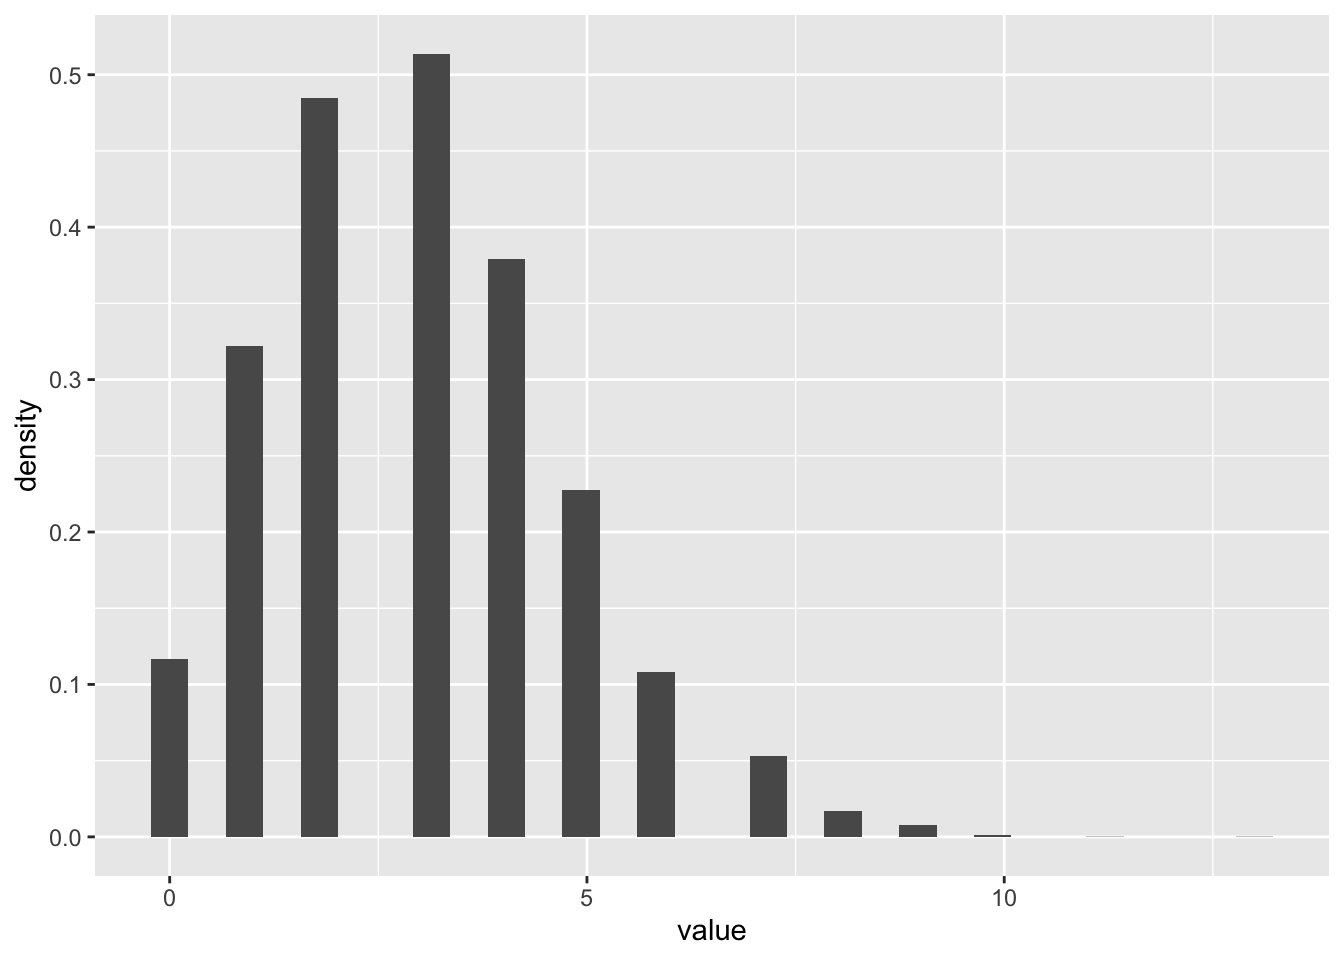
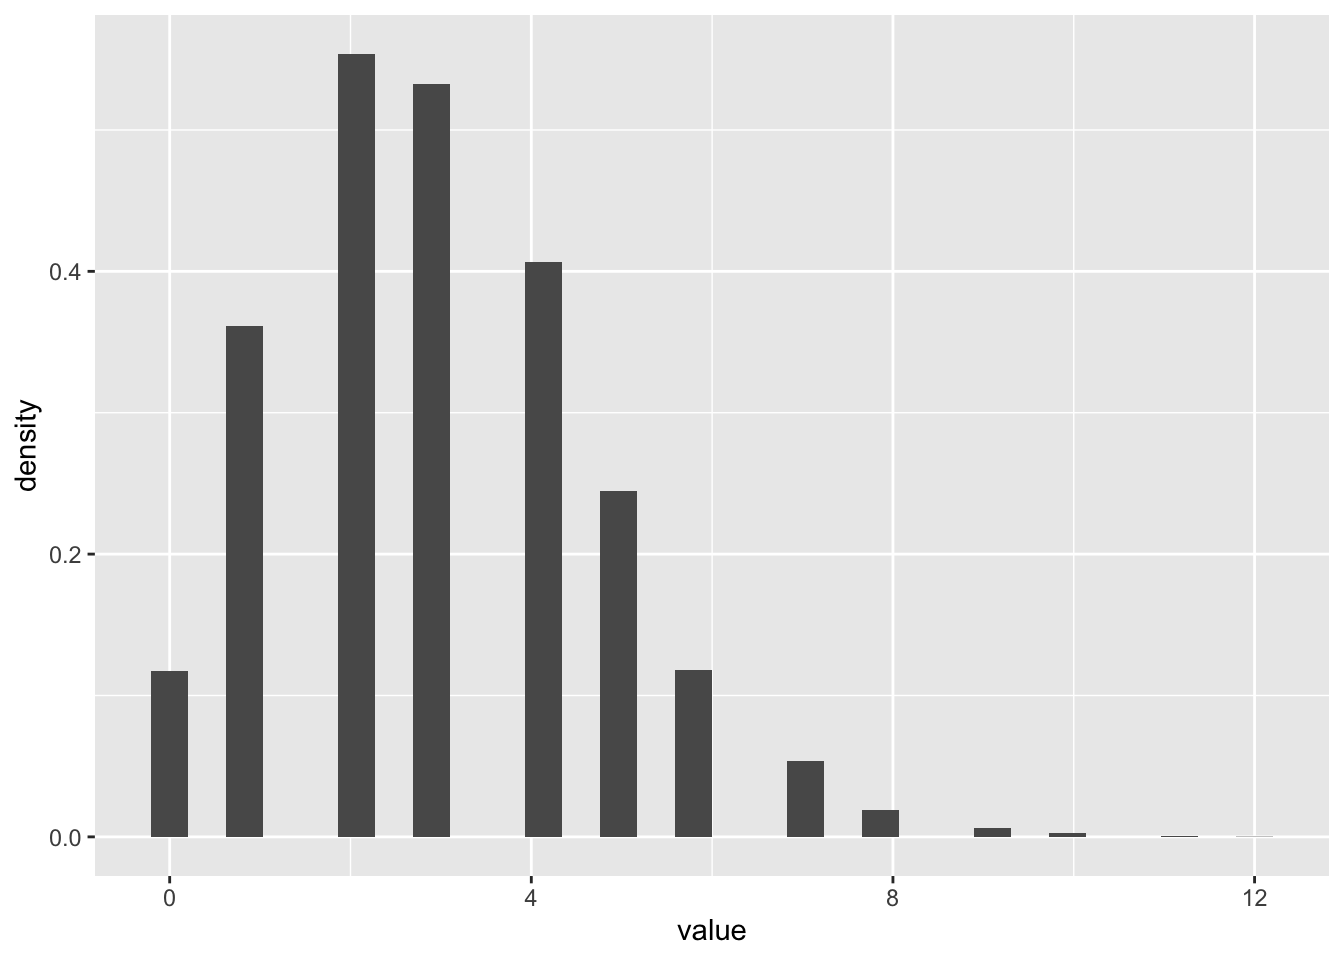
Built site for gh-pages

diff --git a/lectures/lec07-random-variables.html b/lectures/lec07-random-variables.html
@@ -648,7 +648,7 @@ window.Quarto = {
 <div class="cell">
 <div class="code-copy-outer-scaffold"><div class="sourceCode cell-code" id="cb2"><pre class="sourceCode r code-with-copy"><code class="sourceCode r"><span id="cb2-1"><a href="#cb2-1" aria-hidden="true" tabindex="-1"></a><span class="fu">sample</span>(<span class="at">x =</span> <span class="fu">c</span>(<span class="st">"heads"</span>, <span class="st">"tails"</span>), <span class="at">prob =</span> <span class="fu">c</span>(<span class="fl">0.5</span>, <span class="fl">0.5</span>), <span class="at">size =</span> <span class="dv">1</span>)</span></code></pre></div><button title="Copy to Clipboard" class="code-copy-button"><i class="bi"></i></button></div>
 <div class="cell-output cell-output-stdout">
-<pre><code>[1] "heads"</code></pre>
+<pre><code>[1] "tails"</code></pre>
 </div>
 </div>
 <p>Note that in cases where we want the probability of each outcome to be the same, we can omit the <code>prob</code> argument.</p>
@@ -660,11 +660,11 @@ window.Quarto = {
 </div>
 <div class="code-copy-outer-scaffold"><div class="sourceCode cell-code" id="cb6"><pre class="sourceCode r code-with-copy"><code class="sourceCode r"><span id="cb6-1"><a href="#cb6-1" aria-hidden="true" tabindex="-1"></a><span class="fu">print</span>(<span class="fu">sample</span>(<span class="fu">c</span>(<span class="st">"heads"</span>, <span class="st">"tails"</span>), <span class="at">size =</span> <span class="dv">1</span>))</span></code></pre></div><button title="Copy to Clipboard" class="code-copy-button"><i class="bi"></i></button></div>
 <div class="cell-output cell-output-stdout">
-<pre><code>[1] "tails"</code></pre>
+<pre><code>[1] "heads"</code></pre>
 </div>
 <div class="code-copy-outer-scaffold"><div class="sourceCode cell-code" id="cb8"><pre class="sourceCode r code-with-copy"><code class="sourceCode r"><span id="cb8-1"><a href="#cb8-1" aria-hidden="true" tabindex="-1"></a><span class="fu">print</span>(<span class="fu">sample</span>(<span class="fu">c</span>(<span class="st">"heads"</span>, <span class="st">"tails"</span>), <span class="at">size =</span> <span class="dv">1</span>))</span></code></pre></div><button title="Copy to Clipboard" class="code-copy-button"><i class="bi"></i></button></div>
 <div class="cell-output cell-output-stdout">
-<pre><code>[1] "heads"</code></pre>
+<pre><code>[1] "tails"</code></pre>
 </div>
 </div>
 <p>Unlike any other calculation we’ve every done in R, every time we run this we can get something different! Just like a real-life coin flip.</p>
@@ -672,7 +672,7 @@ window.Quarto = {
 <div class="cell">
 <div class="code-copy-outer-scaffold"><div class="sourceCode cell-code" id="cb10"><pre class="sourceCode r code-with-copy"><code class="sourceCode r"><span id="cb10-1"><a href="#cb10-1" aria-hidden="true" tabindex="-1"></a><span class="fu">sample</span>(<span class="fu">c</span>(<span class="st">"heads"</span>, <span class="st">"tails"</span>), <span class="at">size =</span> <span class="dv">2</span>, <span class="at">replace =</span> <span class="cn">TRUE</span>)</span></code></pre></div><button title="Copy to Clipboard" class="code-copy-button"><i class="bi"></i></button></div>
 <div class="cell-output cell-output-stdout">
-<pre><code>[1] "heads" "tails"</code></pre>
+<pre><code>[1] "tails" "tails"</code></pre>
 </div>
 </div>
 <p>Note that we’ve set <code>replace = TRUE</code>, which means that when the first sample is drawn from the set of options (“heads”, “tails”), it is not “removed” from the options available when the second number is chosen. There are other situations when we might be taking a random sample from a set and want <code>replace = FALSE</code>. For example, if we’re randomly choosing the batting order for a baseball team or if we’re choosing in which order to visit a set of locations to collect data.</p>
@@ -687,13 +687,13 @@ window.Quarto = {
 <div class="cell">
 <div class="code-copy-outer-scaffold"><div class="sourceCode cell-code" id="cb12"><pre class="sourceCode r code-with-copy"><code class="sourceCode r"><span id="cb12-1"><a href="#cb12-1" aria-hidden="true" tabindex="-1"></a><span class="fu">sample</span>(<span class="at">x =</span> <span class="dv">1</span><span class="sc">:</span><span class="dv">6</span>, <span class="at">size =</span> <span class="dv">10</span>, <span class="at">replace =</span> <span class="cn">TRUE</span>)</span></code></pre></div><button title="Copy to Clipboard" class="code-copy-button"><i class="bi"></i></button></div>
 <div class="cell-output cell-output-stdout">
-<pre><code> [1] 5 2 1 1 4 3 3 4 1 4</code></pre>
+<pre><code> [1] 5 4 4 1 5 2 4 5 3 5</code></pre>
 </div>
 </div>
 <div class="cell">
 <div class="code-copy-outer-scaffold"><div class="sourceCode cell-code" id="cb14"><pre class="sourceCode r code-with-copy"><code class="sourceCode r"><span id="cb14-1"><a href="#cb14-1" aria-hidden="true" tabindex="-1"></a><span class="fu">sample</span>(<span class="at">x =</span> <span class="fu">c</span>(<span class="st">"Thailand"</span>,<span class="st">"Cambodia"</span>, <span class="st">"Vietnam"</span>), <span class="at">size =</span> <span class="dv">3</span>, <span class="at">replace =</span> <span class="cn">FALSE</span>)</span></code></pre></div><button title="Copy to Clipboard" class="code-copy-button"><i class="bi"></i></button></div>
 <div class="cell-output cell-output-stdout">
-<pre><code>[1] "Cambodia" "Thailand" "Vietnam" </code></pre>
+<pre><code>[1] "Cambodia" "Vietnam"  "Thailand"</code></pre>
 </div>
 </div>
 <div class="cell">
@@ -701,7 +701,7 @@ window.Quarto = {
 <div class="cell-output cell-output-stdout">
 <pre><code>
 females   males 
-      3       7 </code></pre>
+      2       8 </code></pre>
 </div>
 </div>
 </section>
@@ -713,18 +713,18 @@ females   males
 <div class="code-copy-outer-scaffold"><div class="sourceCode cell-code" id="cb18"><pre class="sourceCode r code-with-copy"><code class="sourceCode r"><span id="cb18-1"><a href="#cb18-1" aria-hidden="true" tabindex="-1"></a>coin_flip <span class="ot">&lt;-</span> <span class="fu">sample</span>(<span class="fu">c</span>(<span class="st">"heads"</span>, <span class="st">"tails"</span>), <span class="at">size =</span> <span class="dv">100</span>, <span class="at">replace =</span> <span class="cn">TRUE</span>)</span>
 <span id="cb18-2"><a href="#cb18-2" aria-hidden="true" tabindex="-1"></a><span class="fu">print</span>(coin_flip)</span></code></pre></div><button title="Copy to Clipboard" class="code-copy-button"><i class="bi"></i></button></div>
 <div class="cell-output cell-output-stdout">
-<pre><code>  [1] "heads" "heads" "heads" "tails" "heads" "tails" "tails" "heads" "tails"
- [10] "heads" "tails" "tails" "heads" "heads" "tails" "tails" "tails" "tails"
- [19] "tails" "tails" "heads" "tails" "heads" "heads" "heads" "tails" "tails"
- [28] "heads" "tails" "heads" "tails" "heads" "tails" "tails" "tails" "heads"
- [37] "heads" "heads" "tails" "heads" "tails" "heads" "heads" "heads" "heads"
- [46] "heads" "tails" "heads" "heads" "tails" "heads" "heads" "heads" "tails"
- [55] "tails" "tails" "tails" "tails" "tails" "heads" "tails" "heads" "tails"
- [64] "heads" "tails" "heads" "heads" "heads" "tails" "heads" "heads" "heads"
- [73] "tails" "heads" "heads" "tails" "tails" "heads" "tails" "heads" "tails"
- [82] "tails" "tails" "tails" "heads" "heads" "heads" "heads" "tails" "tails"
- [91] "heads" "heads" "heads" "tails" "heads" "heads" "tails" "heads" "tails"
-[100] "tails"</code></pre>
+<pre><code>  [1] "tails" "tails" "tails" "heads" "heads" "tails" "heads" "heads" "heads"
+ [10] "heads" "tails" "tails" "heads" "tails" "tails" "tails" "heads" "tails"
+ [19] "heads" "heads" "heads" "heads" "heads" "tails" "heads" "tails" "heads"
+ [28] "tails" "tails" "tails" "tails" "tails" "tails" "tails" "heads" "tails"
+ [37] "heads" "heads" "heads" "tails" "heads" "tails" "heads" "heads" "tails"
+ [46] "tails" "tails" "heads" "heads" "tails" "tails" "heads" "tails" "heads"
+ [55] "heads" "heads" "heads" "tails" "heads" "heads" "tails" "heads" "heads"
+ [64] "heads" "tails" "heads" "heads" "heads" "heads" "tails" "tails" "tails"
+ [73] "tails" "heads" "tails" "tails" "heads" "heads" "heads" "tails" "tails"
+ [82] "tails" "tails" "heads" "heads" "heads" "heads" "heads" "tails" "heads"
+ [91] "tails" "heads" "tails" "tails" "tails" "tails" "heads" "tails" "heads"
+[100] "heads"</code></pre>
 </div>
 </div>
 <div class="cell">
@@ -760,9 +760,9 @@ heads tails
 <div class="code-copy-outer-scaffold"><div class="sourceCode cell-code" id="cb27"><pre class="sourceCode r code-with-copy"><code class="sourceCode r"><span id="cb27-1"><a href="#cb27-1" aria-hidden="true" tabindex="-1"></a>binom_samples <span class="ot">&lt;-</span> <span class="fu">rbinom</span>(<span class="at">n =</span> <span class="dv">100</span>, <span class="at">size =</span> <span class="dv">10</span>, <span class="at">prob =</span> <span class="fl">0.5</span>)</span>
 <span id="cb27-2"><a href="#cb27-2" aria-hidden="true" tabindex="-1"></a>binom_samples</span></code></pre></div><button title="Copy to Clipboard" class="code-copy-button"><i class="bi"></i></button></div>
 <div class="cell-output cell-output-stdout">
-<pre><code>  [1] 6 3 1 5 6 7 3 5 6 5 4 3 6 6 5 5 3 7 4 6 6 7 7 5 5 3 4 6 8 3 5 5 5 3 7 6 7
- [38] 5 2 4 6 6 6 4 4 4 4 4 2 3 7 8 8 5 6 5 5 5 5 8 6 6 2 6 5 8 3 5 8 6 3 5 8 6
- [75] 4 5 5 4 5 6 4 6 5 5 5 3 5 5 6 4 7 3 4 7 5 7 7 4 3 3</code></pre>
+<pre><code>  [1] 6 6 4 4 5 6 8 4 5 5 4 5 4 4 4 2 5 3 7 3 5 7 7 8 5 7 6 5 6 7 7 4 3 1 6 6 6
+ [38] 4 4 3 6 4 3 3 5 6 4 4 4 7 6 6 5 5 6 4 7 8 4 4 5 5 5 4 5 6 2 4 4 5 6 7 5 7
+ [75] 4 4 8 7 4 9 7 5 5 7 7 5 4 6 4 5 6 4 7 6 2 3 4 5 5 3</code></pre>
 </div>
 </div>
 <div class="cell">
@@ -811,7 +811,7 @@ heads tails
 <div class="cell">
 <div class="code-copy-outer-scaffold"><div class="sourceCode cell-code" id="cb33"><pre class="sourceCode r code-with-copy"><code class="sourceCode r"><span id="cb33-1"><a href="#cb33-1" aria-hidden="true" tabindex="-1"></a><span class="fu">sum</span>(binom_samples_more <span class="sc">==</span> <span class="dv">8</span>)<span class="sc">/</span><span class="fu">length</span>(binom_samples_more)</span></code></pre></div><button title="Copy to Clipboard" class="code-copy-button"><i class="bi"></i></button></div>
 <div class="cell-output cell-output-stdout">
-<pre><code>[1] 0.036</code></pre>
+<pre><code>[1] 0.043</code></pre>
 </div>
 <div class="code-copy-outer-scaffold"><div class="sourceCode cell-code" id="cb35"><pre class="sourceCode r code-with-copy"><code class="sourceCode r"><span id="cb35-1"><a href="#cb35-1" aria-hidden="true" tabindex="-1"></a><span class="co"># In the above sample of 1000 repeats of 10 flips each, we see that about 5% of the time we get 8 heads. This is rare, but not THAT rare</span></span></code></pre></div><button title="Copy to Clipboard" class="code-copy-button"><i class="bi"></i></button></div>
 </div>
@@ -819,8 +819,8 @@ heads tails
 <div class="code-copy-outer-scaffold"><div class="sourceCode cell-code" id="cb36"><pre class="sourceCode r code-with-copy"><code class="sourceCode r"><span id="cb36-1"><a href="#cb36-1" aria-hidden="true" tabindex="-1"></a><span class="fu">prop.table</span>(<span class="fu">table</span>(binom_samples_more))</span></code></pre></div><button title="Copy to Clipboard" class="code-copy-button"><i class="bi"></i></button></div>
 <div class="cell-output cell-output-stdout">
 <pre><code>binom_samples_more
-    0     1     2     3     4     5     6     7     8     9 
-0.001 0.010 0.048 0.126 0.214 0.240 0.212 0.104 0.036 0.009 </code></pre>
+    0     1     2     3     4     5     6     7     8     9    10 
+0.001 0.013 0.047 0.131 0.194 0.234 0.218 0.104 0.043 0.014 0.001 </code></pre>
 </div>
 <div class="code-copy-outer-scaffold"><div class="sourceCode cell-code" id="cb38"><pre class="sourceCode r code-with-copy"><code class="sourceCode r"><span id="cb38-1"><a href="#cb38-1" aria-hidden="true" tabindex="-1"></a><span class="co"># In the above sample of 1000 repeats of 10 flips each, we see that about 6% of the time we get 8 or more heads. This is rare, but not THAT rare</span></span></code></pre></div><button title="Copy to Clipboard" class="code-copy-button"><i class="bi"></i></button></div>
 </div>
@@ -924,7 +924,7 @@ heads tails
 <span id="cb47-2"><a href="#cb47-2" aria-hidden="true" tabindex="-1"></a>binom.null <span class="ot">&lt;-</span> <span class="fu">rbinom</span>(<span class="at">n =</span> n_trials, <span class="at">size =</span> <span class="dv">100</span>, <span class="at">prob =</span> <span class="fl">0.5</span>)</span>
 <span id="cb47-3"><a href="#cb47-3" aria-hidden="true" tabindex="-1"></a><span class="fu">sum</span>(binom.null <span class="sc">&gt;=</span><span class="dv">66</span>)<span class="sc">/</span>n_trials</span></code></pre></div><button title="Copy to Clipboard" class="code-copy-button"><i class="bi"></i></button></div>
 <div class="cell-output cell-output-stdout">
-<pre><code>[1] 0.00108</code></pre>
+<pre><code>[1] 0.00088</code></pre>
 </div>
 </div>
 <p>Now we have again have p = 0.0009!</p>

diff --git a/syllabus.html b/syllabus.html
@@ -667,17 +667,17 @@ ul.task-list li input[type="checkbox"] {
 <tr class="even">
 <td>5</td>
 <td>Feb 4</td>
-<td>Linear Models I</td>
+<td>Probability, likelihood, and statistical inference</td>
 </tr>
 <tr class="odd">
 <td>6</td>
 <td>Feb 9</td>
-<td>Linear Models 2</td>
+<td>Linear Models 1</td>
 </tr>
 <tr class="even">
 <td>6</td>
 <td>Feb 11</td>
-<td>Mathematical models in ecology and evolution I</td>
+<td>Linear Models II</td>
 </tr>
 <tr class="odd">
 <td></td>
@@ -702,7 +702,7 @@ ul.task-list li input[type="checkbox"] {
 <tr class="odd">
 <td>8</td>
 <td>Mar 2</td>
-<td>Optimization and model fitting</td>
+<td>Mathematical models in ecology and evolution II</td>
 </tr>
 <tr class="even">
 <td>8</td>
@@ -822,14 +822,14 @@ ul.task-list li input[type="checkbox"] {
 <td>Problem Set 4</td>
 <td>Individual</td>
 <td>Quercus</td>
-<td>Feb 11</td>
+<td>Feb 13</td>
 <td>8</td>
 </tr>
 <tr class="even">
 <td>Problem Set 5</td>
 <td>Individual</td>
 <td>Quercus</td>
-<td>Feb 18</td>
+<td>Feb 20</td>
 <td>8</td>
 </tr>
 <tr class="odd">

diff --git a/assignments/assignment-04.html b/assignments/assignment-04.html
@@ -600,7 +600,7 @@ window.Quarto = {
 </header>
 
 
-<p>Download the .Rmd file <a href="https://eeb313.github.io/assignments/assignment-03.Rmd">here</a>.</p>
+<p>Download the .Rmd file <a href="https://eeb313.github.io/assignments/assignment-04.Rmd">here</a>.</p>
 <p><em>To submit this assignment, upload the full document, including the original questions, your code, and the output. Submit your assignment as a knitted <code>.pdf</code>. Please ensure the text on your .pdf does not continue past the end of the page.</em></p>
 <section id="simulating-genomic-mutations-2.5-marks" class="level2">
 <h2 class="anchored" data-anchor-id="simulating-genomic-mutations-2.5-marks">1. Simulating genomic mutations (2.5 marks)</h2>
